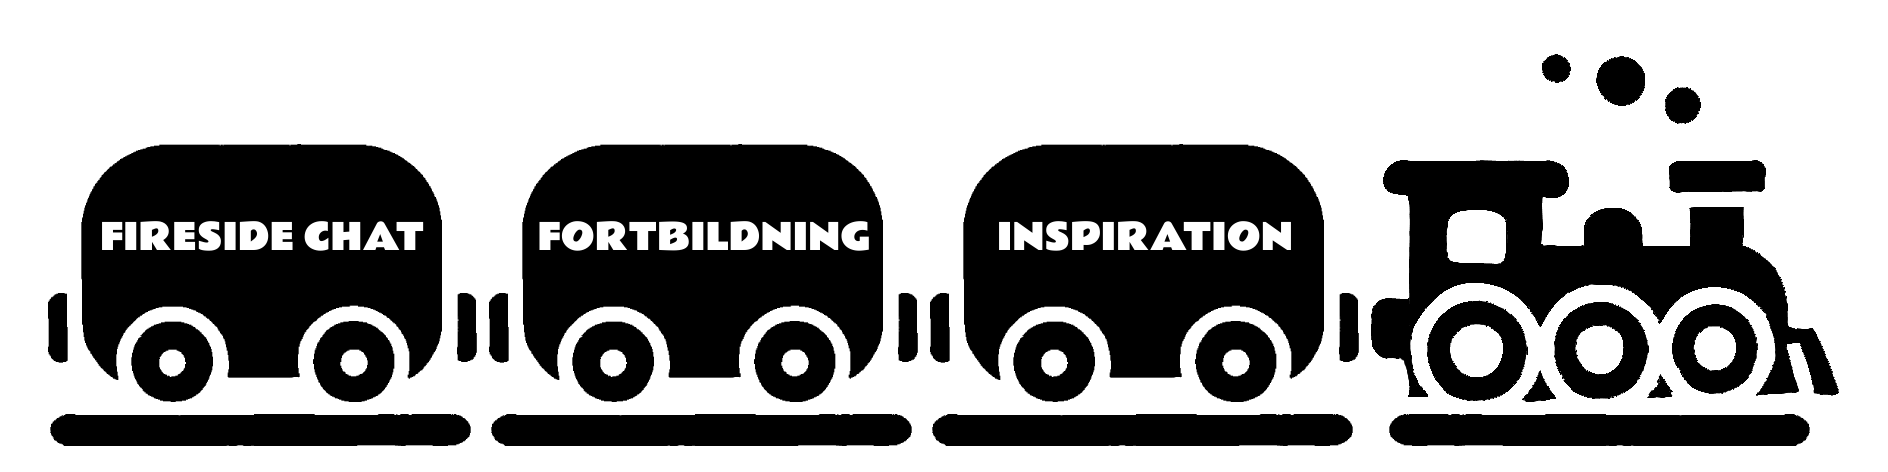
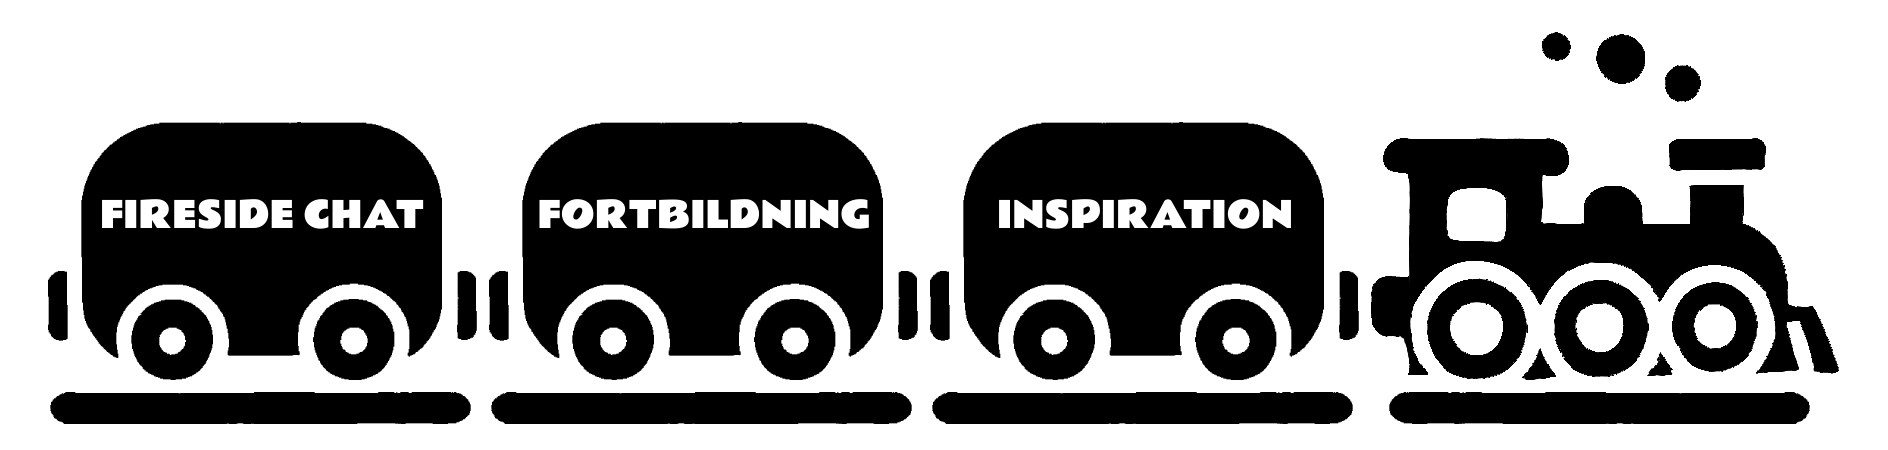
fix animation so it fits

diff --git a/firmafest/stylesheets/inspiration.css b/firmafest/stylesheets/inspiration.css
@@ -41,7 +41,7 @@
     }
 }
 .image {
-    height: 100px;
+    height: 90px;
     visibility: hidden;
     opacity: 0;
     transform: translateX(0);
